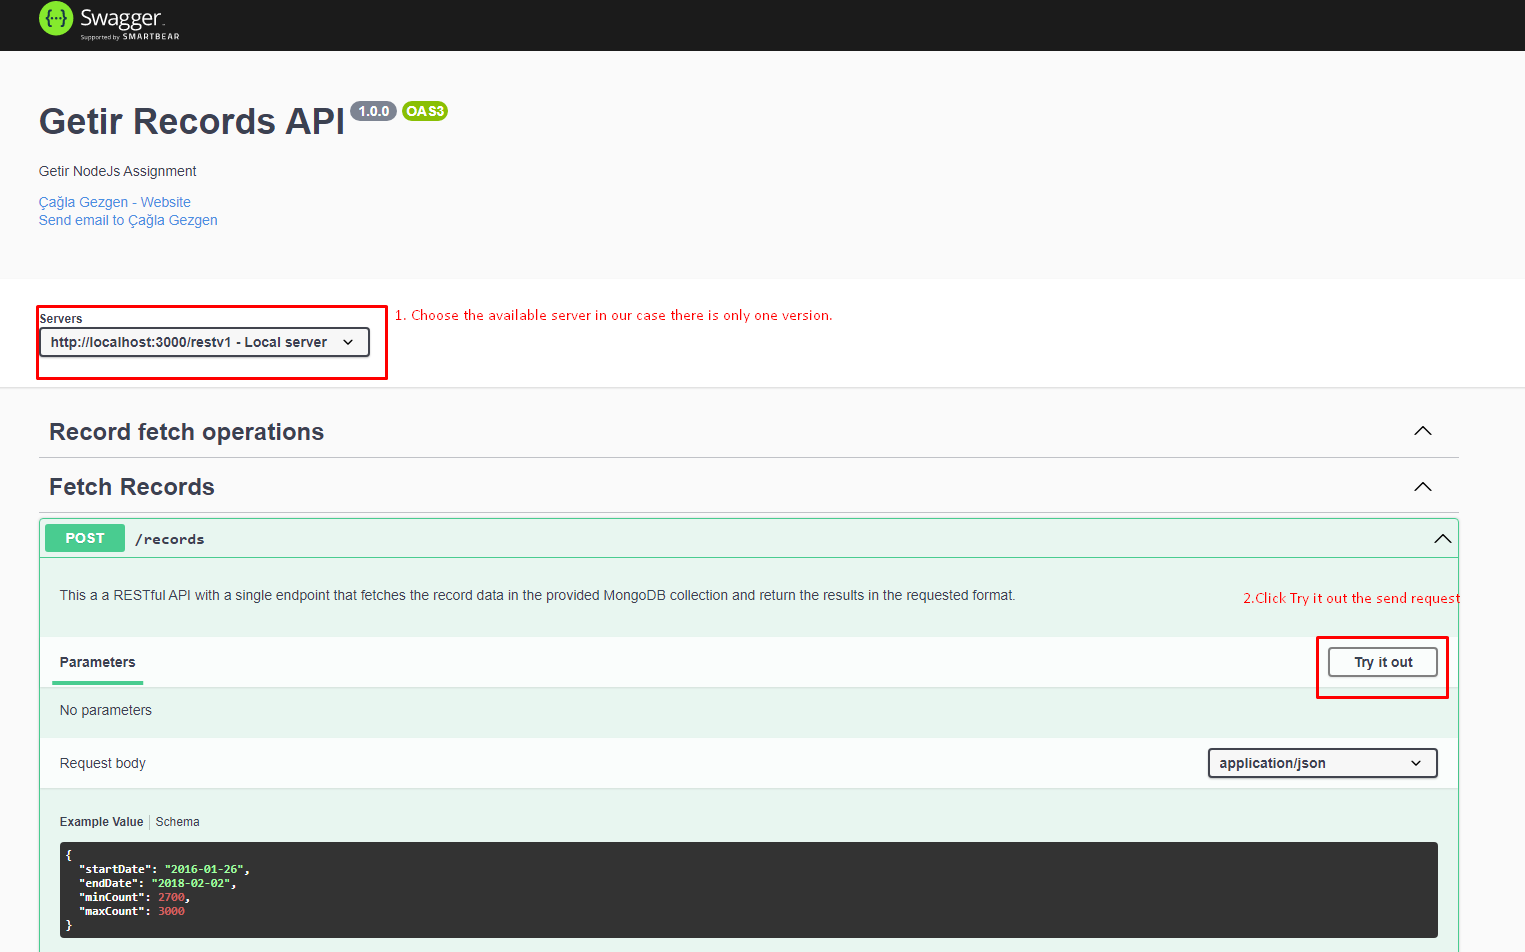
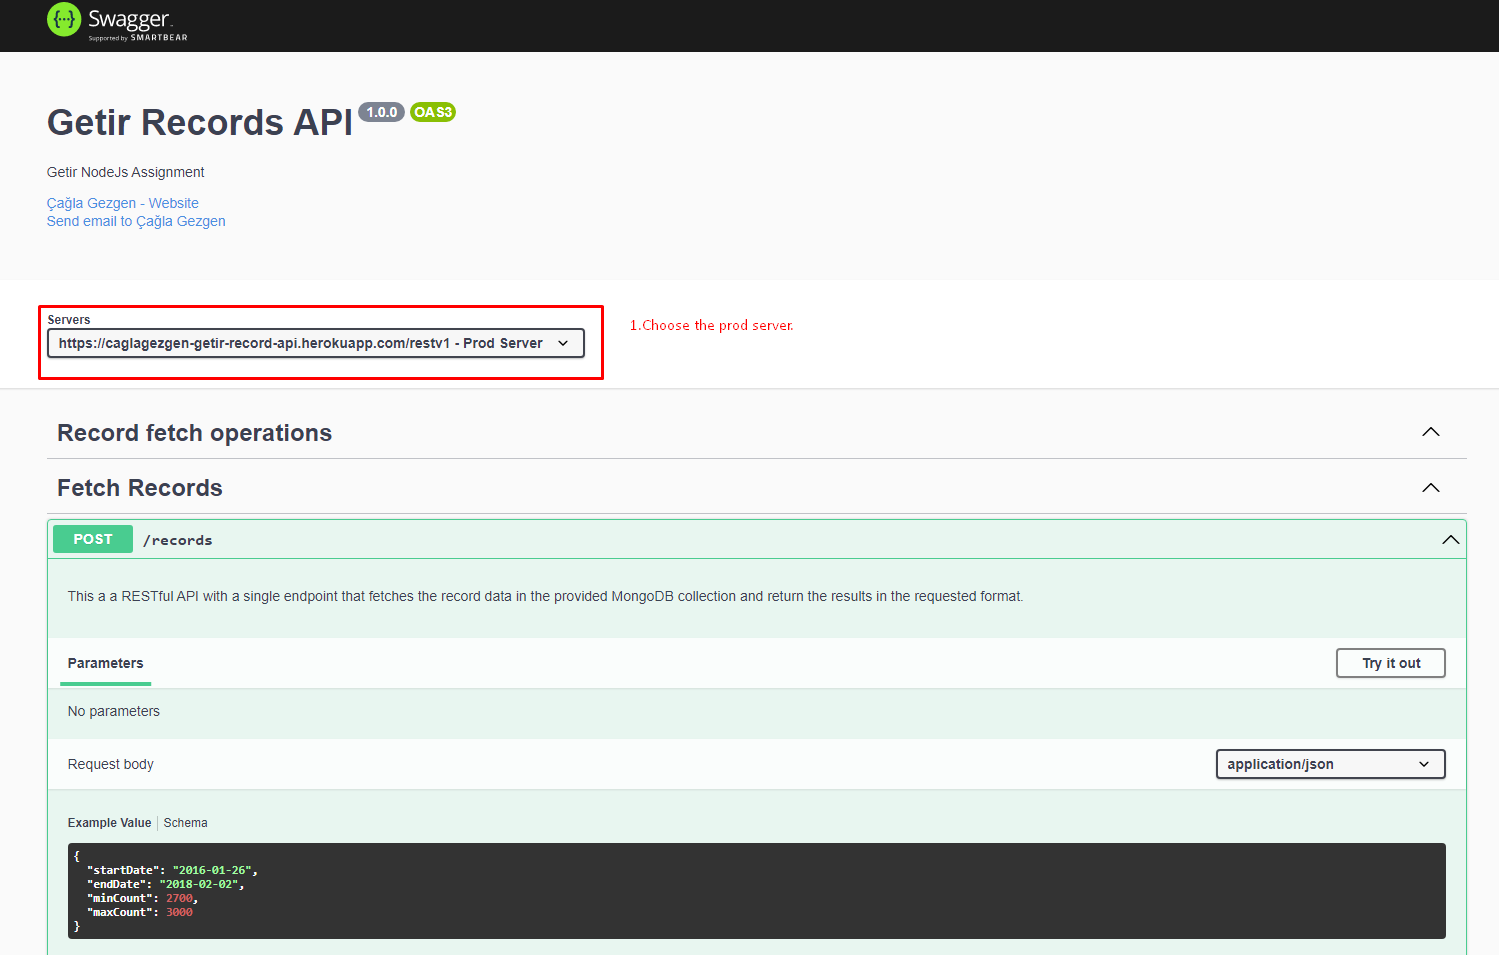
update readme

diff --git a/src/db/mongoConnection.js b/src/db/mongoConnection.js
@@ -5,8 +5,8 @@ module.exports = () => {
   mongoose.connect(process.env.GETIR_MONGODB_URI, {
     useNewUrlParser: true,
     useUnifiedTopology: true,
-  }).catch(e => console.log("Database connection errro."));
+  }).catch(e => console.log("Database connection err."));
   const db = mongoose.connection;
-  db.on("error", () => logger.error("Database Connection Error:" `${err}`));
+  db.on("error", err => logger.error("Database connection error: ", err));
   db.once("open", () => logger.info("Connected to Database"));
 }

diff --git a/src/docs/servers.js b/src/docs/servers.js
@@ -4,5 +4,9 @@ module.exports = {
           url: "http://localhost:3000/restv1", // url
           description: "Local server", // name
         },
+        {
+          url: "https://caglagezgen-getir-record-api.herokuapp.com/restv1", //url
+          description: "Prod Server", //name
+        }
       ],
 }

diff --git a/README.md b/README.md
@@ -32,7 +32,7 @@
 
 
 ## Demo 
-1.  Welcome to Getir Record Api.
+1.  Welcome to Getir Record API. There is 2 kind of servers such as local and prod.
 
  ![image](./src/demo/screen1.png)
 
@@ -40,7 +40,7 @@
 
  ![image](./src/demo/screen2.png)
 
-3. Execute the query.
+3. Succes Response of the production server.
 
  ![image](./src/demo/screen3.png)
 
